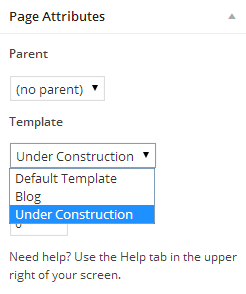
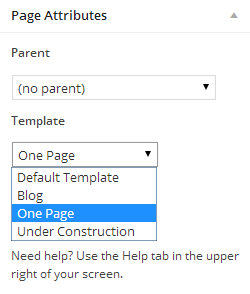
construction

diff --git a/noise/index.html b/noise/index.html
@@ -826,8 +826,9 @@ All you need to do is just enter **all** information in the fields in these meta
 Page Templates
 ==============
 
-Noise has 2 page templates:
+Noise has 3 page templates:
 
+- **Onepage**: displays one page layout (same as demo)
 - **Blog**: displays blog posts.
 - **Under Construction**: display under construction page.
 
@@ -838,6 +839,17 @@ When you edit a page, look at on the right, find **Page Attributes** meta box an
 View the page to see result!
 
 Note: if you want to make the under construction page work (e.g. your site is under construction mode), after creating a page with page template **Under Construction**, please go to **General** tab in theme option and enable **Under Construction Mode**.
+
+For **Under Construction** page template, you'll see this box below main editor:
+
+![underconstruction](http://fitwp.github.io/docs/noise/underconstruction.png)
+
+This page template needs following information:
+
+- **(1)**: page heading, this will show a big notice to users.
+- **(2)**: description, text to describe the construction mode.
+- **(3)**: end date, i.e. when the website is done.
+- **(4)**: background image. This allow you to upload or select any image in Media Library as background for construction page.
 
 
 
